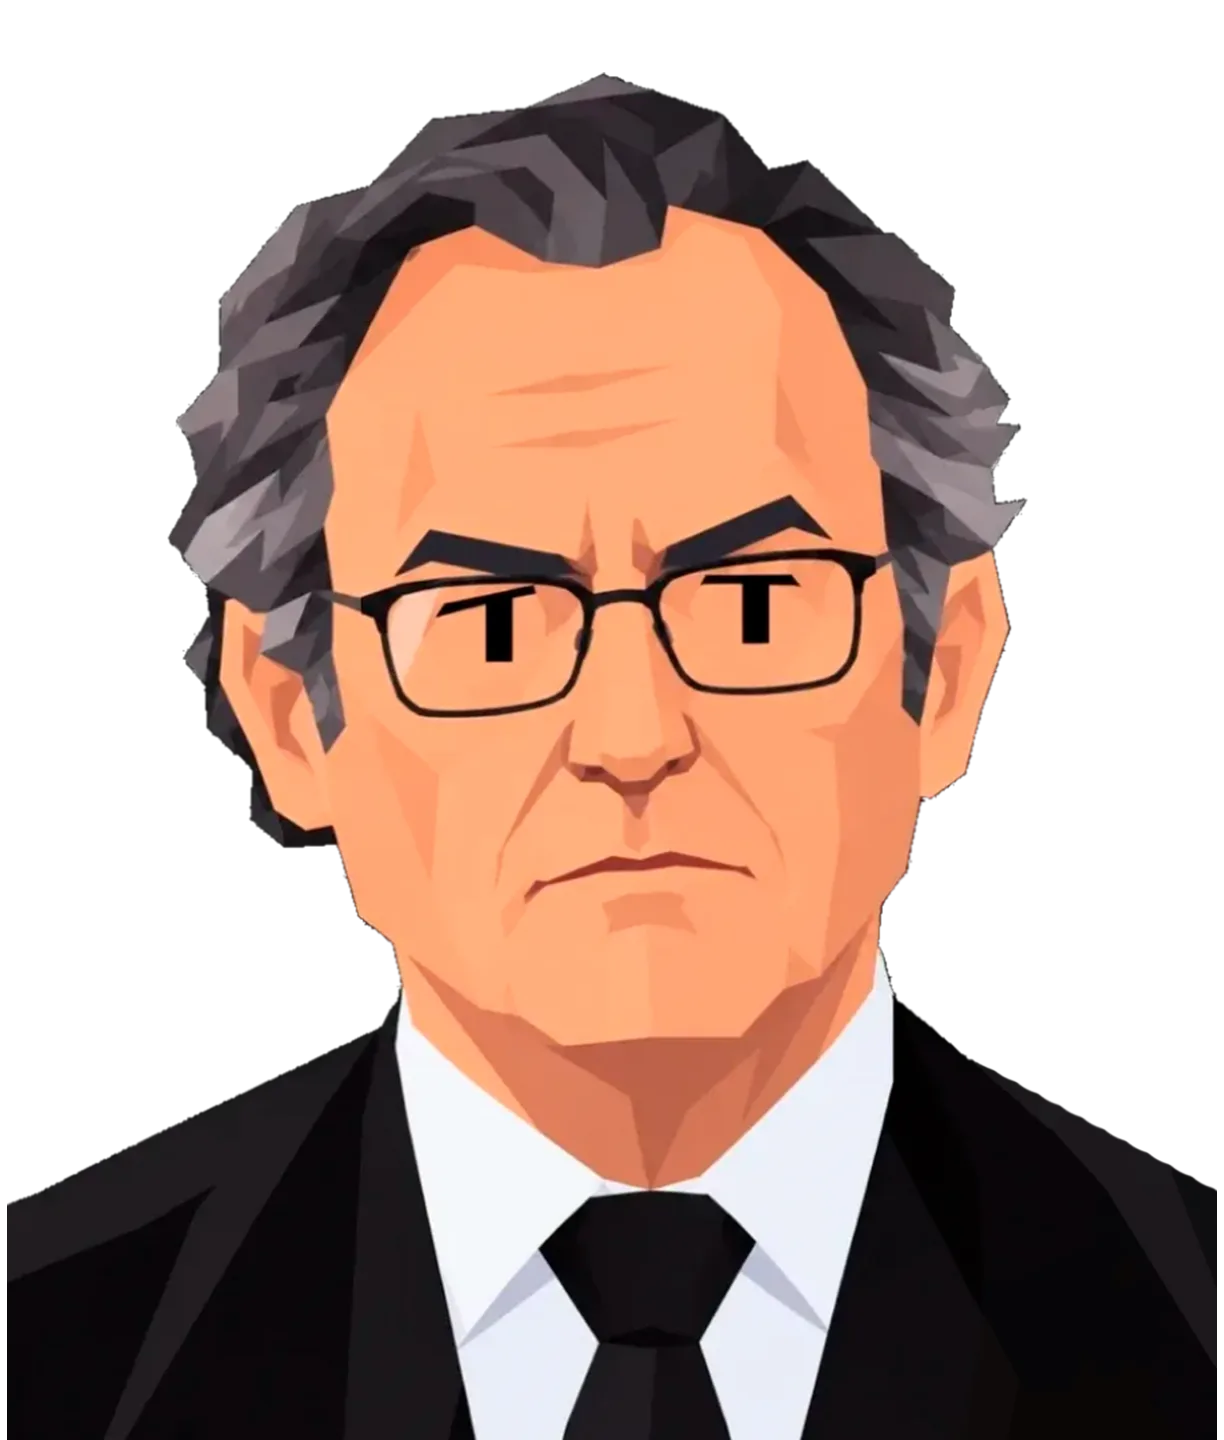
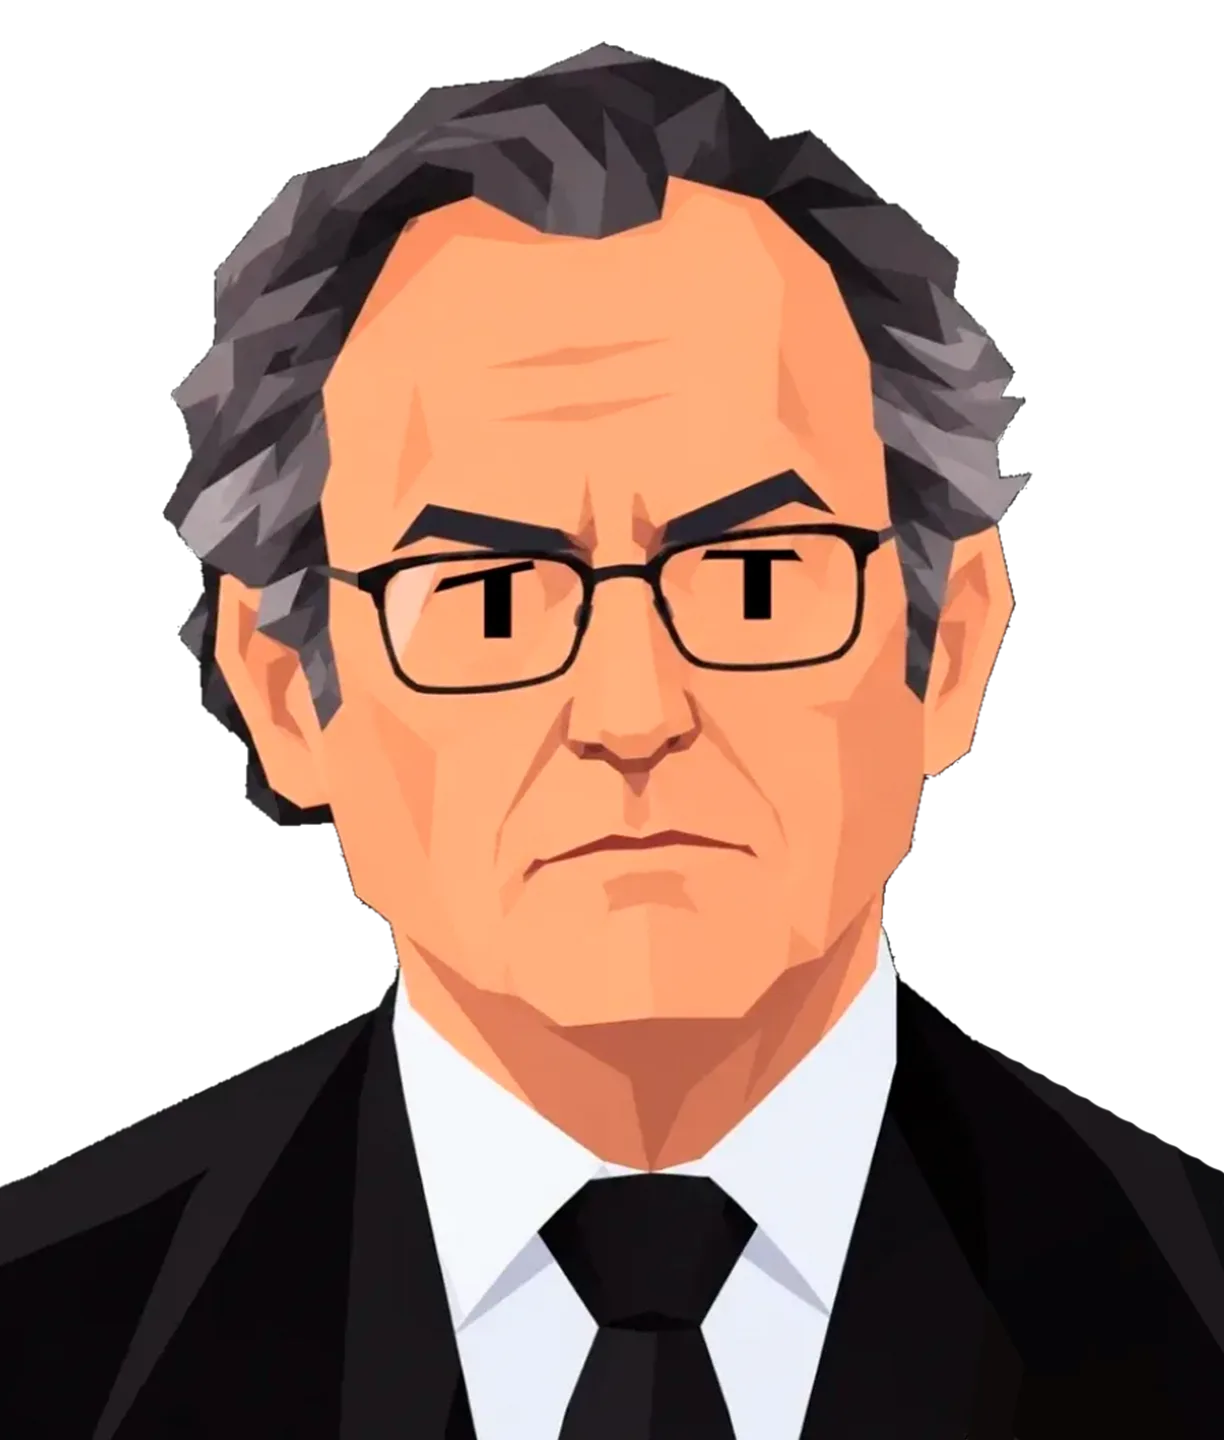
Las caras vuelven a salir todas al mismo tamano
Lo vio Alberto: "no creo que estes escalando bien las caras, unas se cortan
mas que otras, es posible que haya configuraciones por personaje". Las habia,
dos, y las dos peleaban contra el arte nuevo.

MEDIDO ANTES DE TOCAR NADA: del retrato mas grande al mas pequeno habia un
26% de diferencia de tamano. Sumaban dos cosas:

  ACERCAMIENTO (data/acercamiento)  un zoom de CSS por personaje: once de los
                                    veinticuatro a x1,15 y el resto a x1,00
  normalize-portraits               escala cada figura para que su SILUETA
                                    llene el 96% del alto: x1,059 al que tenia
                                    10,3% de aire sobre la cabeza, x0,967 al
                                    que tenia 1,8%

Las dos se escribieron para arte heterogeneo, cuando cada retrato venia
dibujado a una distancia. El arte nuevo llega con las CARAS ya igualadas a
mano, y al igualar caras las siluetas quedan distintas -hay quien lleva mas
pelo-, asi que normalizar siluetas DES-iguala las caras. El zoom por personaje,
directamente, metia un 15% de diferencia donde no habia ninguna.

Fuera las dos:

  - data/acercamiento se borra y SwipeCard deja de escalar.
  - normalize-portraits no toca lo que ya llega a 1224x1440 exactos: si viene
    a medida es que el dibujante ya lo encuadro, y re-encuadrarlo es deshacer
    su trabajo. Lo que llegue a otro tamano se sigue re-encuadrando, que es
    para lo que existe.
[…]

diff --git a/src/components/SwipeCard.tsx b/src/components/SwipeCard.tsx
@@ -2,7 +2,6 @@ import { useCallback, useEffect, useState } from 'react'
 import { animate, motion, useTransform, type MotionValue, type PanInfo } from 'framer-motion'
 import type { Card, StatEffects } from '../types'
 import { characterColor, characterBackground } from '../utils/color'
-import { ACERCAMIENTO } from '../data/acercamiento'
 import { sfx } from '../utils/sfx'
 import { COLOR, pixel } from '../utils/estilo'
 
@@ -590,17 +589,20 @@ export function SwipeCard({ card, onChoose, x, enfado, favorDebido, repartir, nu
                 height: '100%',
                 objectFit: 'cover',
                 objectPosition: 'center top',
-                // Y a unos cuantos se les acerca un poco la camara, porque el
-                // dibujo los dejo mas lejos que al resto: la cara iba del 41%
-                // al 67% del lienzo segun el personaje. Se hace AQUI y no
-                // reescribiendo el .webp a proposito: asi no se recomprime
-                // nada, el fichero sigue siendo el que entrego el dibujante y
-                // deshacerlo es cambiar un numero (ver data/acercamiento).
+                // Anclado ARRIBA y no al centro, que es donde esta la cara: lo
+                // que se sale por abajo es torso, que no dice nada.
+                // SIN ZOOM POR PERSONAJE, Y ES A PROPOSITO. Hubo una tabla
+                // (data/acercamiento) que acercaba la camara a once de los
+                // veinticuatro, hasta un 15%, para compensar que el arte viejo
+                // los dibujo a distinta distancia. Con el arte nuevo, que viene
+                // con las caras ya igualadas a mano, esa tabla hacia justo lo
+                // contrario: metia un 15% de diferencia entre unos y otros.
+                // Medido antes de quitarla: del retrato mas grande al mas
+                // pequeno habia un 26%.
                 //
-                // Desde arriba y no desde el centro, que es donde esta la
-                // cara: lo que se sale por abajo es torso, que no dice nada.
-                transform: `scale(${ACERCAMIENTO[card.characterImage ?? ''] ?? 1})`,
-                transformOrigin: 'center top',
+                // Si algun dia vuelve a entrar arte desigual, la solucion es
+                // igualarlo en el dibujo, no compensarlo aqui: un zoom de CSS
+                // recorta por los lados y no se ve en Photoshop.
                 opacity: caraLista ? 1 : 0,
                 transition: 'opacity 200ms ease-out',
               }}

diff --git a/src/data/coloresRetrato.ts b/src/data/coloresRetrato.ts
@@ -7,26 +7,26 @@
 export const COLOR_RETRATO: Record<string, string> = {
   'agente.webp': '#4d141e',
   'comisario.webp': '#14244d',
-  'cruzado.webp': '#4d4314',
-  'encuestador.webp': '#1d1c45',
-  'escudero.webp': '#241d44',
-  'exiliadopesado.webp': '#17234a',
-  'expresidentecompetente.webp': '#191948',
+  'cruzado.webp': '#4d4414',
+  'encuestador.webp': '#1c1c45',
+  'escudero.webp': '#221d44',
+  'exiliadopesado.webp': '#17244a',
+  'expresidentecompetente.webp': '#1a1849',
   'feminista.webp': '#4d1444',
   'fiscal.webp': '#242e3d',
   'fontanera.webp': '#24283d',
-  'guru.webp': '#49181e',
+  'guru.webp': '#4a171c',
   'hermano.webp': '#202541',
   'independentista.webp': '#2a243d',
   'jefecomunicacion.webp': '#14234d',
   'juez.webp': '#27243d',
   'ministraincompetente.webp': '#242a3d',
-  'ministrocorrupto.webp': '#412041',
+  'ministrocorrupto.webp': '#402041',
   'mopongo.webp': '#4d1417',
   'oposicionsuave.webp': '#14264d',
   'periodista.webp': '#471a37',
   'presidentaregional.webp': '#4d1419',
-  'primeradama.webp': '#4d2d14',
-  'sociaincomoda.webp': '#4b1642',
+  'primeradama.webp': '#4d2c14',
+  'sociaincomoda.webp': '#4b1645',
   'vicepresi.webp': '#24263d',
 }
